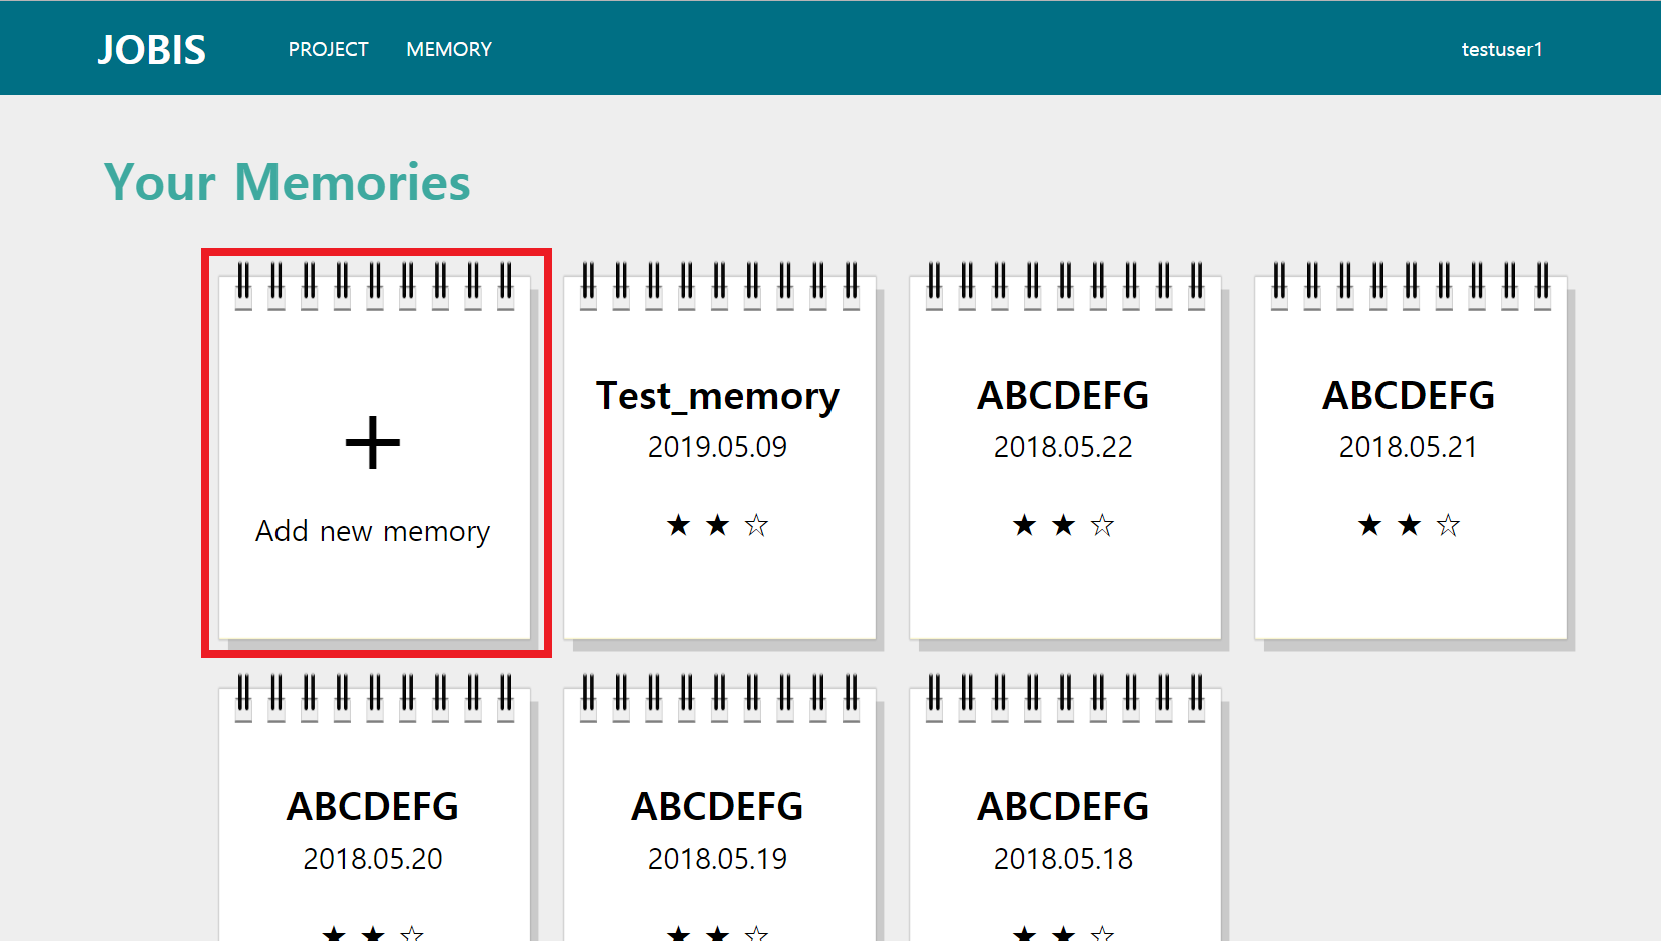
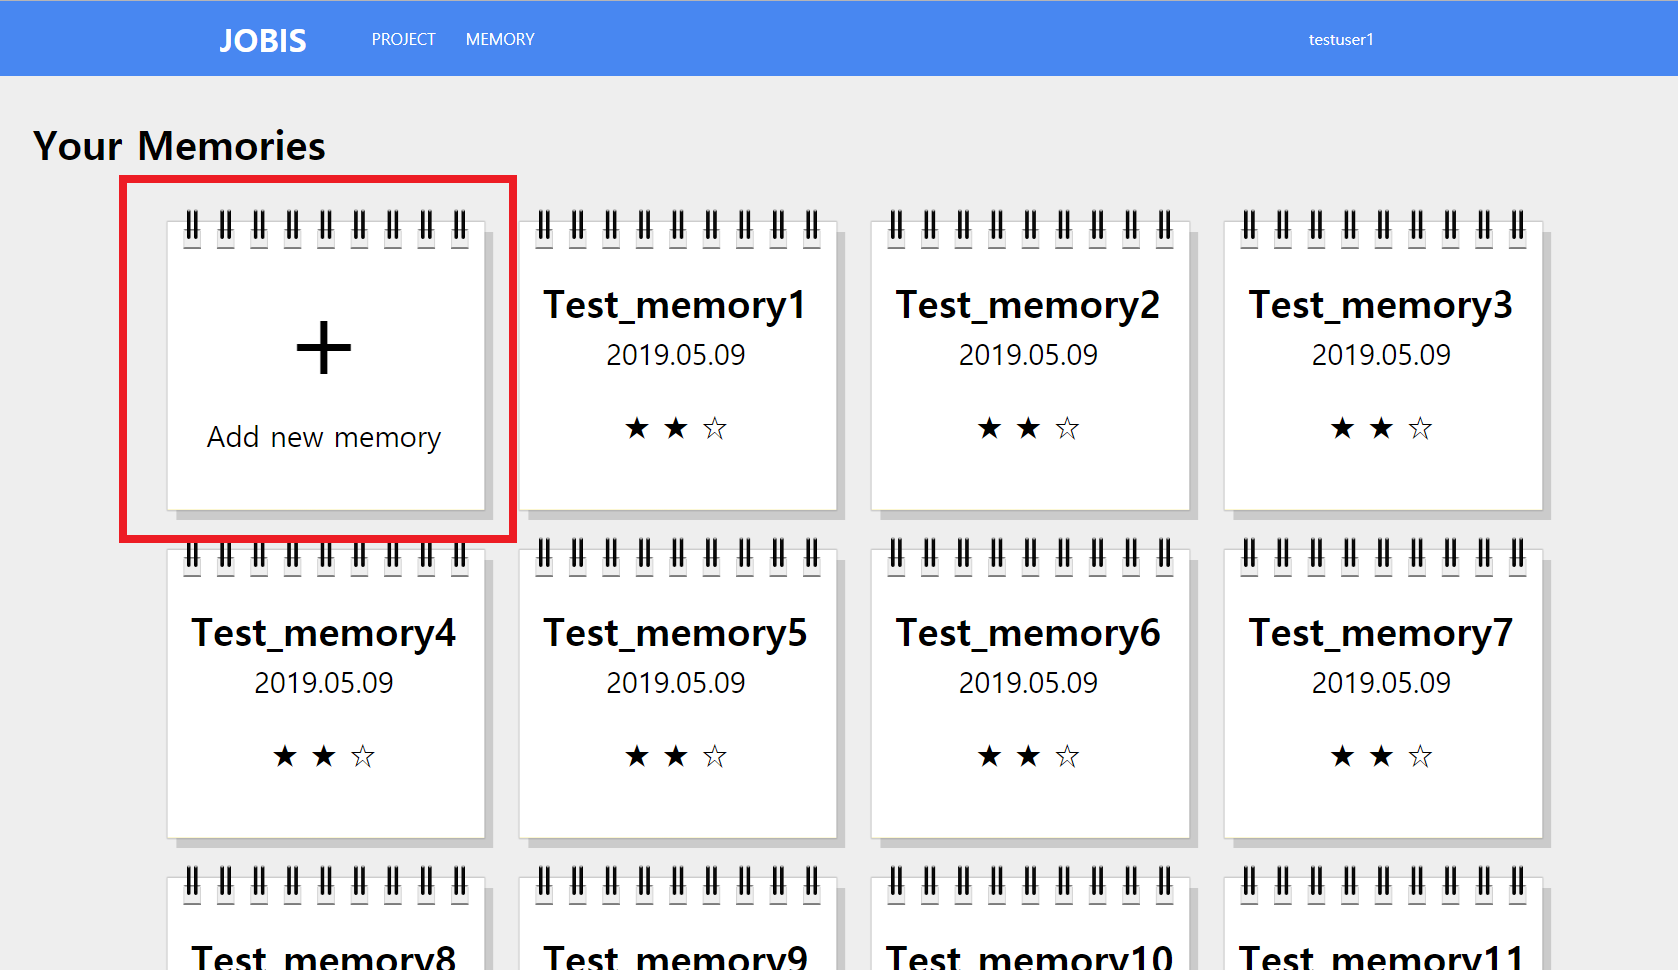
edit tutorial

diff --git a/index.css b/index.css
@@ -45,14 +45,16 @@ body //margin-top:75px
 }
 
 .popup {
-	height: 300px;
-  	width: 500px;
+	position: fixed;
+	z-index:100;
+	height: 33%; //300px;
+  	width: 30%;//500px;
 	   content: "";
- 	 position: absolute;
+ 	// position: absolute;
 	  text-align: center;
-	  top: 33%;
- 	  left: 37%;
-	border-radius: 30px;
+	  top: 30%;
+ 	  left: 35%;
+	border-radius: 15px;
  	 background-color: #eeeeee;
 
 	display: none;
@@ -72,7 +74,7 @@ button{
 	margin-right: 50px;
 	margin-left: 50px;
 
-	//box-shadow: 0px 10px 14px -7px #276873;
+/*	//box-shadow: 0px 10px 14px -7px #276873;
 	background-color:#3ea99f;
 	//-moz-border-radius:8px;
 	//-webkit-border-radius:8px;
@@ -84,6 +86,19 @@ button{
 	font-weight:bold;
 	padding: 8px 20px;
 	//text-decoration:none;
+*/
+	  user-select: none;
+	background-color:#25ba4d;
+	-moz-border-radius:17px;
+	-webkit-border-radius:17px;
+	border-radius:17px;
+	display:inline-block;
+	cursor:pointer;
+	color:#ffffff;
+	font-family:Arial;
+	font-size:17px;
+	padding:14px 29px;
+	text-decoration:none;
 }
 
 #tutorial{
@@ -154,7 +169,7 @@ button{
 	//margin-left: 60px;
 	//margin-right: 60px;
 	padding: 30px;
-	background-color: #C3EFEF;
+	background-color: #68a7Ed;//#C3EFEF;
 }
 
 .dummy_img{
@@ -226,7 +241,7 @@ input{
 }
 
 #login_button{
-	box-shadow: 0px 10px 14px -7px #276873;
+/*	box-shadow: 0px 10px 14px -7px #276873;
 	background-color:#3ea99f;
 	-moz-border-radius:8px;
 	-webkit-border-radius:8px;
@@ -240,6 +255,19 @@ input{
 	padding: 8px 20px;
 	text-decoration:none;
 	//text-shadow:0px 1px 0px #3d768a;
+*/
+	  user-select: none;
+	background-color:#25ba4d;
+	-moz-border-radius:17px;
+	-webkit-border-radius:17px;
+	border-radius:17px;
+	display:inline-block;
+	cursor:pointer;
+	color:#ffffff;
+	font-family:Arial;
+	font-size:17px;
+	padding:14px 29px;
+	text-decoration:none;
 }
 
 

diff --git a/index.html b/index.html
@@ -54,19 +54,23 @@
 <div class = 'step'>
 <div  class = 'step_title'> 2. Register Questions of Personal History Statement</div>
 <div class = 'step_description'>
-<div  class = 'dummy_img'> Register questions </div >
+<div  class = 'dummy_img'> Register questions <img src="./src/tutorial_image/add_questions.png"> </div >
 </div> </div>
 
 <div class = 'step'>
 <div  class = 'step_title'> 3. Create your life flowchart </div>
 <div class = 'step_description'>
-<div  class = 'dummy_img'> Explore flowchart </div > <span class='arrow'>  ---> </span> <div   class = 'dummy_img'> Write memos and Build flow </div>
+<div  class = 'dummy_img'> Explore flowchart <img src="./src/tutorial_image/explore_flowchart.png"></div > 
+<span class='arrow'>  ---> </span> 
+<div   class = 'dummy_img'> Write memos and Build flow <img src="./src/tutorial_image/write_memos.png"> </div>
 </div></div>
 
 <div class = 'step'>
 <div  class = 'step_title'> 4. Build story layouts </div>
 <div class = 'step_description'>
-<div  class = 'dummy_img'> Select memories </div > <span class='arrow'> ---> </span> <div   class = 'dummy_img'> Build a story layout </div>
+<div  class = 'dummy_img'> Select memories </div > 
+<span class='arrow'> ---> </span> 
+<div   class = 'dummy_img'> Build a story layout </div>
 </div></div>
 
 <div class = 'step'>

diff --git a/source.css b/source.css
@@ -6,7 +6,7 @@ a{text-decoration: none;}
 /*common*/
 
 /*header*/
-header {height:75px; background-color: #006F84; width:100%; z-index: 9999; position:fixed; top:0; left:0; position:fixed;}
+header {height:75px; background-color: #4887f1; width:100%; z-index: 9999; position:fixed; top:0; left:0; position:fixed;}
 .header_wrapper{width:1170px;margin: 0 auto;}
 
 .logo {}

diff --git a/memory/memory.css b/memory/memory.css
@@ -11,7 +11,7 @@ html {
 
 h2 {
 	font-size: 40px;
-	color: #3ea99f;
+	color: black;//#3ea99f;
 	margin-left: 60px;
 	margin-block-start: 1em;
 	margin-block-end: 0.8em;
